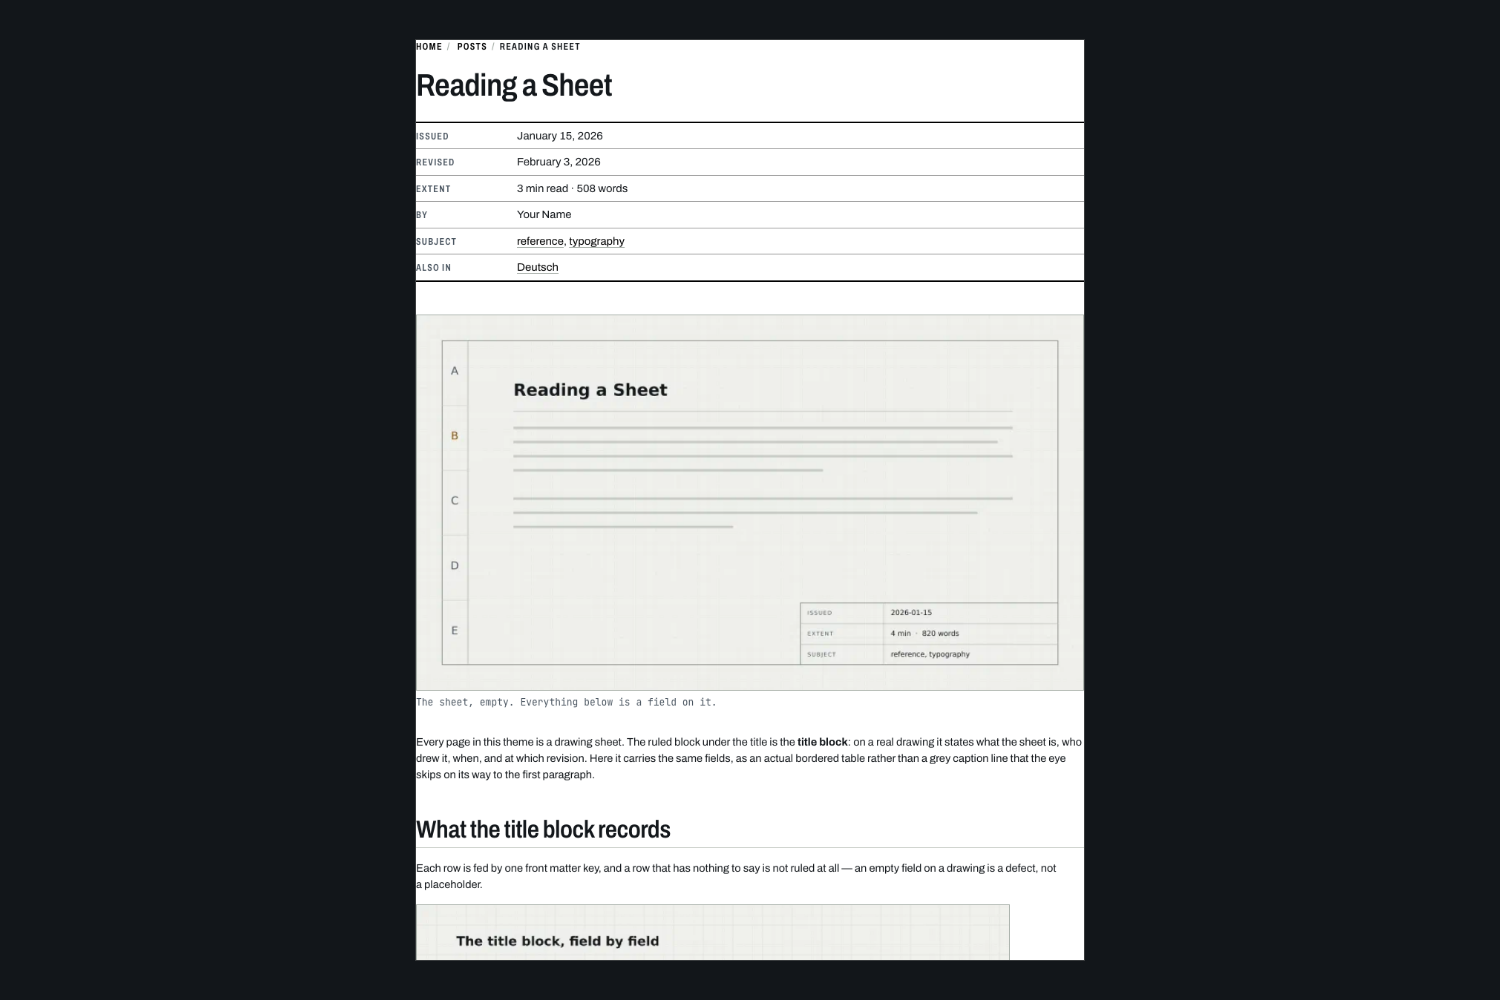
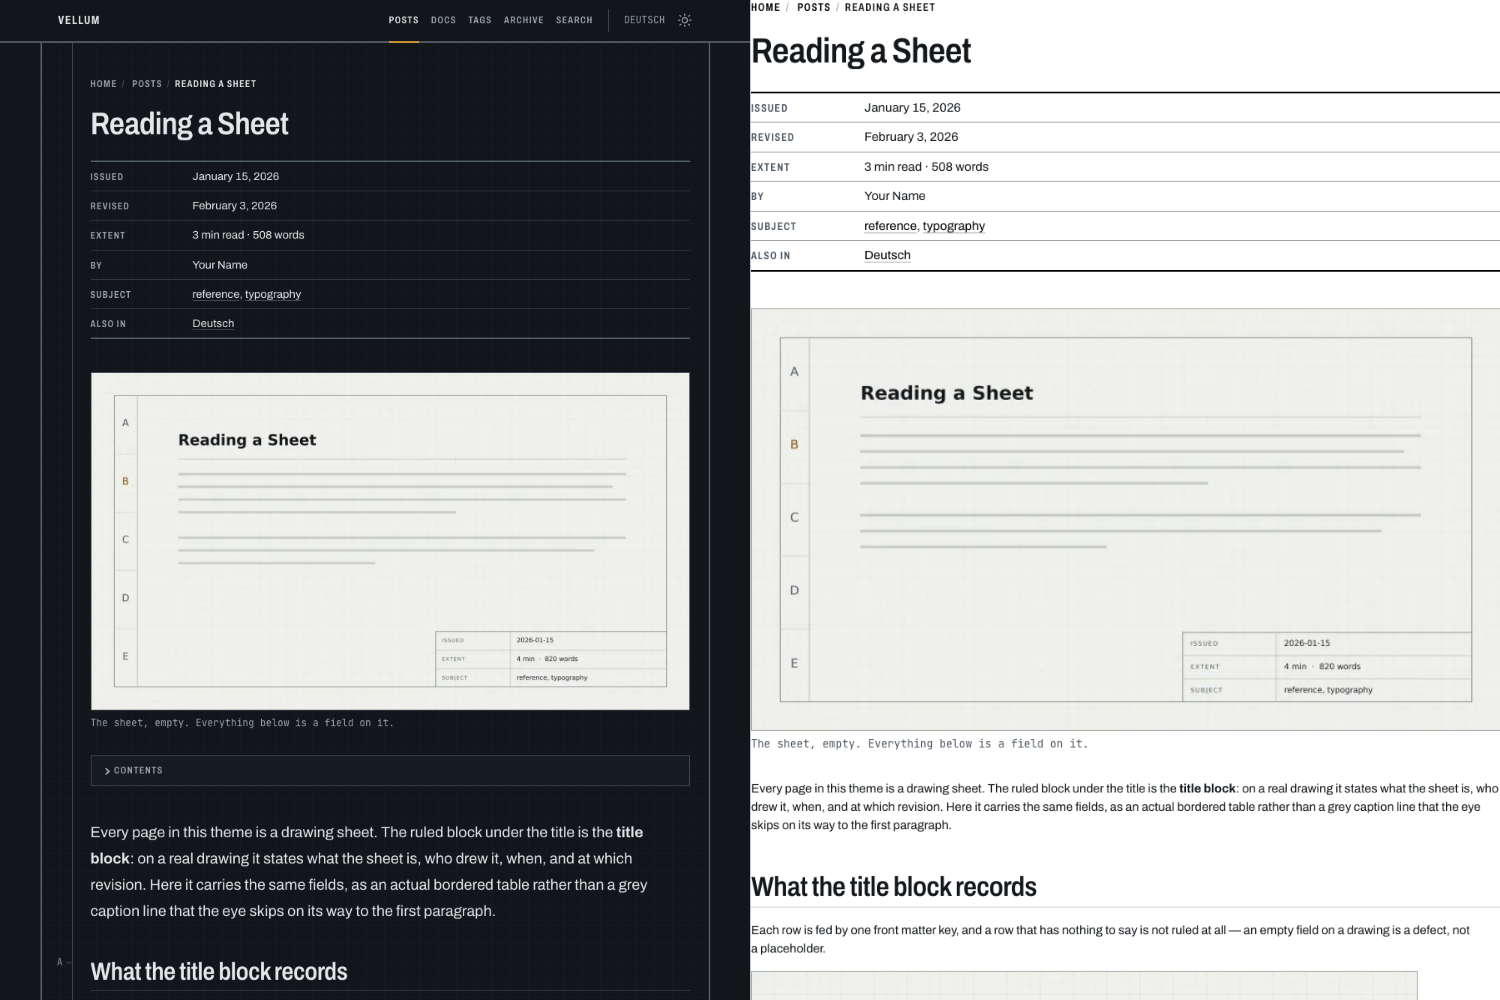
docs: show the print stylesheet as a comparison, not as its output
The mounted frame from 72be6ea did not do its job. It was dark by area -- 59% of
it -- and still read as a white image, because a white sheet on a dark field
reads bright whatever surrounds it. The complaint it was meant to answer stood.

The subject is the problem, not the framing. 95-print.css forces
color-scheme: light and a white ground whatever the reader chose, because paper
is not a surface the screen palette was contrast-checked against, so there is no
dark rendering of the printed page and no crop of one that is dark. A light/dark
pair of the output alone is the same image twice.

So the frame shows the change rather than the result: the post on screen at the
left, the same post on paper at the right. The left half carries the reader's
scheme, which is what makes the dark variant genuinely dark, and the comparison
is the better image regardless -- it shows what the stylesheet does, which a
picture of the output never did. Header, navigation, zone rail, contents panel
and the graph substrate all visibly go; the breadcrumb trail moves to the top,
the title block prints heavier, the leading tightens.

Both halves are shot at 3:4, which is the shape of half a 3:2 frame, so each
fills its side with no crop and no letterbox. The screen half is 1000px wide and
cannot go narrower: --frame-collapse is 60rem, so a smaller viewport would
compare against a layout the desktop reader never sees. The seam is a hairline,
[…]

diff --git a/CLAUDE.md b/CLAUDE.md
@@ -6,7 +6,7 @@
 
 It is developed standalone. It lives at `gitlab.stkn.org:felix/vellum`, is committed to directly on `main`, and publishes `exampleSite/` to GitLab Pages from there.
 
-A second copy lives at `github.com/cebor/vellum`, and it is **pushed by hand — automatic mirroring is deliberately switched off and is to stay off.** Nothing propagates on its own, so `git push github main --follow-tags` is a required step of every release, not a convenience. That copy is not incidental: **`github.com/cebor/vellum` is the module path listed on themes.gohugo.io**, so it is the address users install from and file issues against, and every user-facing URL in `README.md`, `theme.toml` and `exampleSite/hugo.toml` points there rather than at GitLab. Two things follow. A release only counts once its tag has reached GitHub — the registry reads the *latest tag*, not `main`, so verify with `git ls-remote --tags https://github.com/cebor/vellum.git` after pushing. `.release/release.sh` is the whole procedure and does exactly that; never cut a release by hand. And `images/` holds ten tracked fixtures, not stray build output, in two formats along one line: the registry accepts only `.png`/`.jpg`, everything else is read by a browser and is free. `screenshot.png` (1500×1000) and `tn.png` (900×600) are the registry fixtures: they must be in the tagged release or the theme gallery shows a placeholder, and both are 3:2 PNG for that reason. `hero-light.webp`/`hero-dark.webp` (1500×1000) are what the README's `<picture>` element loads over the raw URLs, which is why a hand-pushed GitHub copy that lags behind shows a broken image on the first thing a user reads — and there are now five more that fail the same way: `gallery-terminal-{light,dark}.webp` and `gallery-icons-{light,dark}.webp` (1500×1000) plus `gallery-print-{light,dark}.webp`. The print frame is shot on a paper-proportioned viewport — a print stylesheet stretched across 1500px is not what a printer does with it — and then *mounted* on a field of the theme's own `--bg`, read out of the page's `theme-color` metas rather than written into the harness, which brings it back to the gallery's 3:2 and is the only honest way to give it a dark variant: `95-print.css` forces `color-scheme: light` and a white ground whatever the reader chose, so there is no dark rendering of the printed page and shooting one would picture a feature the theme does not have. What follows the reader is the field the sheet lies on, which is what a print preview shows anyway. The eight WebP are **lossless** — identical pixels at about a third of the bytes, which matters because every tracked byte is downloaded by every site that runs `hugo mod get` on this theme. All ten are cut by `node .parity/shots.mjs --fixtures` against a running dev server — viewport clips, never `fullPage`, because 3:2 is a hard requirement and a full-page frame is whatever height the page happens to be. The registry pair is additionally a **split**: one frame carrying both schemes, light left of the centre line and dark right of it, because the gallery shows exactly one image per theme and a light-only preview never said the dark scheme existed. The cut is vertical for a reason — both halves are the same page at the same viewport, so the header rule, the frame's top edge and every title-block row rule run unbroken through the seam and only the paper and the ink change; a diagonal would slice each of those at an angle. Nothing the README loads is split, and that rule now covers the gallery too: a `<picture>` already hands each reader the right full-width variant, so splitting one would trade a working mechanism for half the resolution per scheme — and two of the gallery frames could not be split at any price, since a seam through the icon grid bisects a cell and truncates its name, and the terminal measures its own window and animates, so its two loads are two different states. The split is also why the registry pair now shoots a post rather than sitting on the home page as it used to — a split needs content either side of the centre line, and the home page has none to give: profile, buttons and post titles all fall in the left half, so the dark half came out an all but empty field that reads as a broken image at thumbnail size. The compositing is done by the browser that is already open — the two frames go in as data URIs and the dark one is clipped to the right half — rather than by an image library, because the halves have to meet on a seam running through rules that browser laid out. `sharp` is now a **devDependency** of the harness and does the encoding only, where the pixels are already fixed; `playwright-core` remains the only thing an ordinary review shot needs. The reason once given here for keeping it the *only* dependency — that anything vendored would ride into every consuming site's module cache — does not hold: `node_modules/` is in `.gitignore`, so a module download takes `package.json` and `package-lock.json` and nothing else. Keep the runtime dependency single because the harness should stay trivially installable, not because of module weight. `release.sh` checks all ten dimensions — `check_img` dispatches on the extension, reading the PNG IHDR with `od` and delegating WebP to sharp, because lossless WebP is VP8L with the dimensions bit-packed or VP8X with them as 24-bit LE, and an `od` recipe covering both would be quietly wrong when it was not — but it cannot tell a themed 404 from a home page, so the fixture mode asserts each route's status and writes nothing unless all ten succeed. Two fixtures are staged rather than merely loaded: every fixture context runs `reducedMotion: 'reduce'`, without which the smooth-scroll in `10-base.css` is still in flight when an anchored frame is shot and the terminal's character-at-a-time output makes two loads two different states; and the terminal frame clicks its own `skills` button first, because a window opened on `help` at 24 rows is two-thirds empty field. `hugo.toml` at the root exists solely to declare `[module.hugoVersion]` — the only form Hugo enforces and the only one the registry reads.
+A second copy lives at `github.com/cebor/vellum`, and it is **pushed by hand — automatic mirroring is deliberately switched off and is to stay off.** Nothing propagates on its own, so `git push github main --follow-tags` is a required step of every release, not a convenience. That copy is not incidental: **`github.com/cebor/vellum` is the module path listed on themes.gohugo.io**, so it is the address users install from and file issues against, and every user-facing URL in `README.md`, `theme.toml` and `exampleSite/hugo.toml` points there rather than at GitLab. Two things follow. A release only counts once its tag has reached GitHub — the registry reads the *latest tag*, not `main`, so verify with `git ls-remote --tags https://github.com/cebor/vellum.git` after pushing. `.release/release.sh` is the whole procedure and does exactly that; never cut a release by hand. And `images/` holds ten tracked fixtures, not stray build output, in two formats along one line: the registry accepts only `.png`/`.jpg`, everything else is read by a browser and is free. `screenshot.png` (1500×1000) and `tn.png` (900×600) are the registry fixtures: they must be in the tagged release or the theme gallery shows a placeholder, and both are 3:2 PNG for that reason. `hero-light.webp`/`hero-dark.webp` (1500×1000) are what the README's `<picture>` element loads over the raw URLs, which is why a hand-pushed GitHub copy that lags behind shows a broken image on the first thing a user reads — and there are now five more that fail the same way: `gallery-terminal-{light,dark}.webp` and `gallery-icons-{light,dark}.webp` (1500×1000) plus `gallery-print-{light,dark}.webp`. That last pair is not a screenshot of the printed page but a **comparison** — the post on screen beside the same post on paper, each half shot at 3:4 so it fills its side of the 3:2 frame without a crop. It has to be, and the two failed attempts are the argument: `95-print.css` forces `color-scheme: light` and a white ground whatever the reader chose, so a light/dark pair of the output alone is the same image twice; and mounting that sheet on a dark field still read as a white block at 59% dark field, because a white sheet on dark reads bright whatever surrounds it. Putting the screen render in the left half is what makes the dark variant dark, and the comparison is the better image anyway — it shows what the stylesheet *does* rather than only what it produces. The eight WebP are **lossless** — identical pixels at about a third of the bytes, which matters because every tracked byte is downloaded by every site that runs `hugo mod get` on this theme. All ten are cut by `node .parity/shots.mjs --fixtures` against a running dev server — viewport clips, never `fullPage`, because 3:2 is a hard requirement and a full-page frame is whatever height the page happens to be. The registry pair is additionally a **split**: one frame carrying both schemes, light left of the centre line and dark right of it, because the gallery shows exactly one image per theme and a light-only preview never said the dark scheme existed. The cut is vertical for a reason — both halves are the same page at the same viewport, so the header rule, the frame's top edge and every title-block row rule run unbroken through the seam and only the paper and the ink change; a diagonal would slice each of those at an angle. Nothing the README loads is split, and that rule now covers the gallery too: a `<picture>` already hands each reader the right full-width variant, so splitting one would trade a working mechanism for half the resolution per scheme — and two of the gallery frames could not be split at any price, since a seam through the icon grid bisects a cell and truncates its name, and the terminal measures its own window and animates, so its two loads are two different states. The split is also why the registry pair now shoots a post rather than sitting on the home page as it used to — a split needs content either side of the centre line, and the home page has none to give: profile, buttons and post titles all fall in the left half, so the dark half came out an all but empty field that reads as a broken image at thumbnail size. The compositing is done by the browser that is already open — the two frames go in as data URIs and the dark one is clipped to the right half — rather than by an image library, because the halves have to meet on a seam running through rules that browser laid out. `sharp` is now a **devDependency** of the harness and does the encoding only, where the pixels are already fixed; `playwright-core` remains the only thing an ordinary review shot needs. The reason once given here for keeping it the *only* dependency — that anything vendored would ride into every consuming site's module cache — does not hold: `node_modules/` is in `.gitignore`, so a module download takes `package.json` and `package-lock.json` and nothing else. Keep the runtime dependency single because the harness should stay trivially installable, not because of module weight. `release.sh` checks all ten dimensions — `check_img` dispatches on the extension, reading the PNG IHDR with `od` and delegating WebP to sharp, because lossless WebP is VP8L with the dimensions bit-packed or VP8X with them as 24-bit LE, and an `od` recipe covering both would be quietly wrong when it was not — but it cannot tell a themed 404 from a home page, so the fixture mode asserts each route's status and writes nothing unless all ten succeed. Two fixtures are staged rather than merely loaded: every fixture context runs `reducedMotion: 'reduce'`, without which the smooth-scroll in `10-base.css` is still in flight when an anchored frame is shot and the terminal's character-at-a-time output makes two loads two different states; and the terminal frame clicks its own `skills` button first, because a window opened on `help` at 24 rows is two-thirds empty field. `hugo.toml` at the root exists solely to declare `[module.hugoVersion]` — the only form Hugo enforces and the only one the registry reads.
 
 `README.md` is the user-facing documentation — params, front matter, shortcodes, icon set — and `exampleSite/` is the only site in this repository and the only thing that exercises the theme, so a param it never sets is a param nothing tests. A param that isn't in the README does nothing; add it there when you add it to a template.
 

diff --git a/README.md b/README.md
@@ -85,14 +85,15 @@ unknown one, so the typo fallback is visible rather than described.
 
 ### On paper
 
-The site chrome goes, the sheet stays: breadcrumb trail, ruled title block, figures with their
-captions. Paper gets its own ink rather than the screen palette, because paper is not a surface the
-screen palette was contrast-checked against — so the printed page is white in either scheme, and
-what follows your theme here is the field it is laid on.
+The same post twice: **on screen at the left, on paper at the right.** The site chrome goes, and
+the sheet stays — breadcrumb trail, ruled title block, figures with their captions, the title block
+printing heavier rather than lighter. The graph substrate goes too, because on paper the reader's own
+sheet is the substrate. Paper gets its own ink rather than the screen palette, which is why the right
+half stays white whichever scheme you are reading this in.
 
 <picture>
   <source media="(prefers-color-scheme: dark)" srcset="https://raw.githubusercontent.com/cebor/vellum/main/images/gallery-print-dark.webp">
-  <img alt="A print preview: the same post on a white sheet, with no header or navigation, a breadcrumb trail, the title block ruled out as a table, and the cover figure with its caption"
+  <img alt="The same post side by side: on the left as rendered on screen, with header, navigation, zone rail and contents panel; on the right as printed, with all of that gone, a breadcrumb trail at the top, the title block ruled heavier, and the cover figure with its caption"
        src="https://raw.githubusercontent.com/cebor/vellum/main/images/gallery-print-light.webp">
 </picture>
 

diff --git a/CONTRIBUTING.md b/CONTRIBUTING.md
@@ -215,6 +215,9 @@ forward with the next patch.
   existed. The README hero and gallery stay real light/dark pairs — a `<picture>` already serves the
   right one at full width, and two of the gallery frames could not be split anyway: a seam through
   the icon grid bisects a cell, and the terminal is animated, so two loads are two different states.
+  The print frame is a third case: `95-print.css` forces a white ground in either scheme, so its
+  "pair" is a comparison — the page on screen at the left, on paper at the right — and the left half
+  is what carries the reader's scheme.
   The composite is still assembled in the browser the script already drives, because the halves have
   to line up on rules that browser laid out.
 
